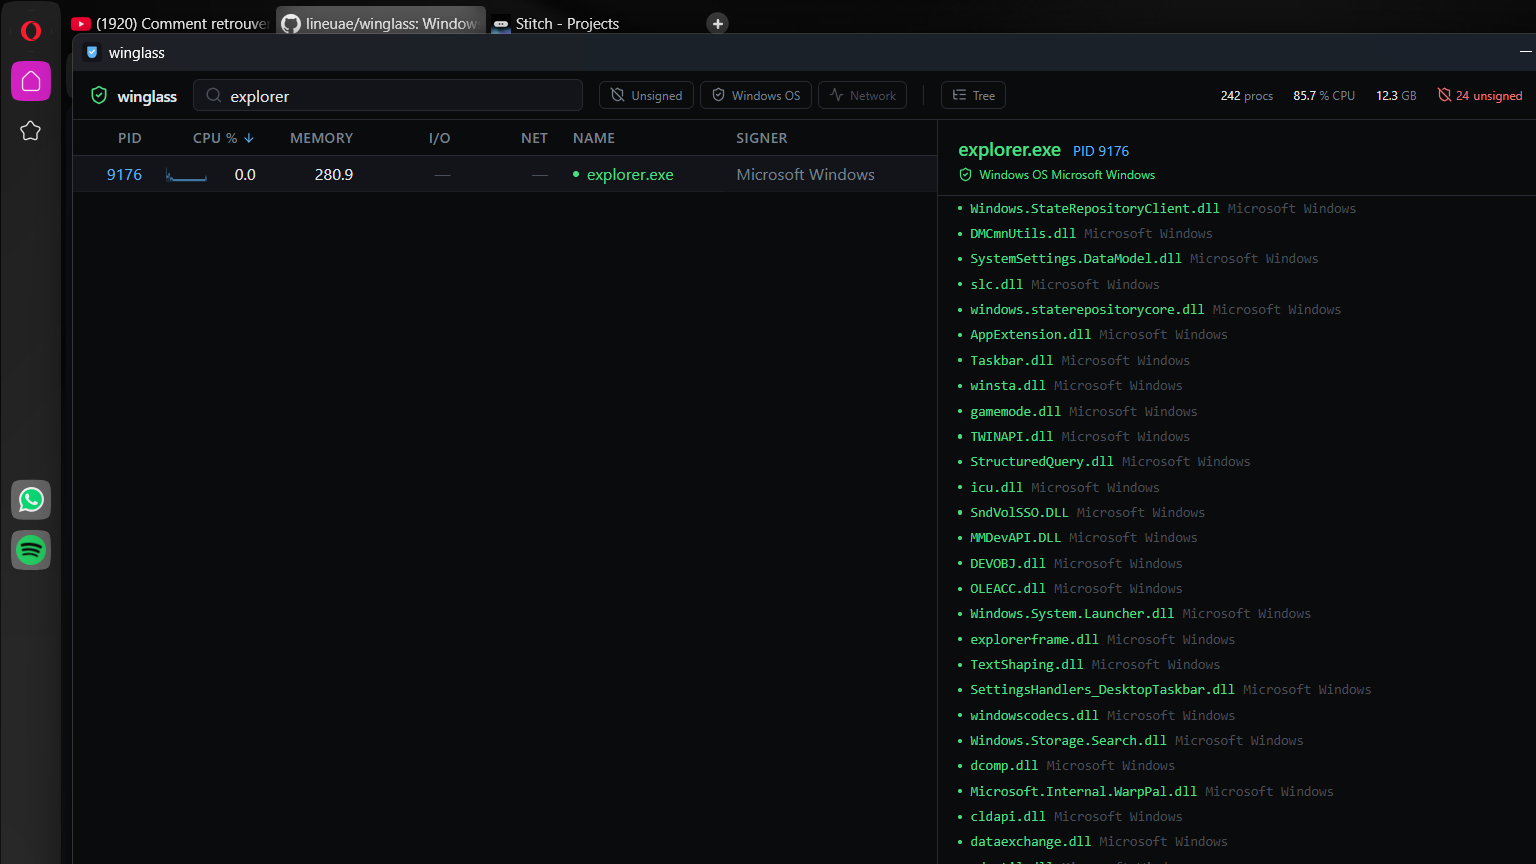
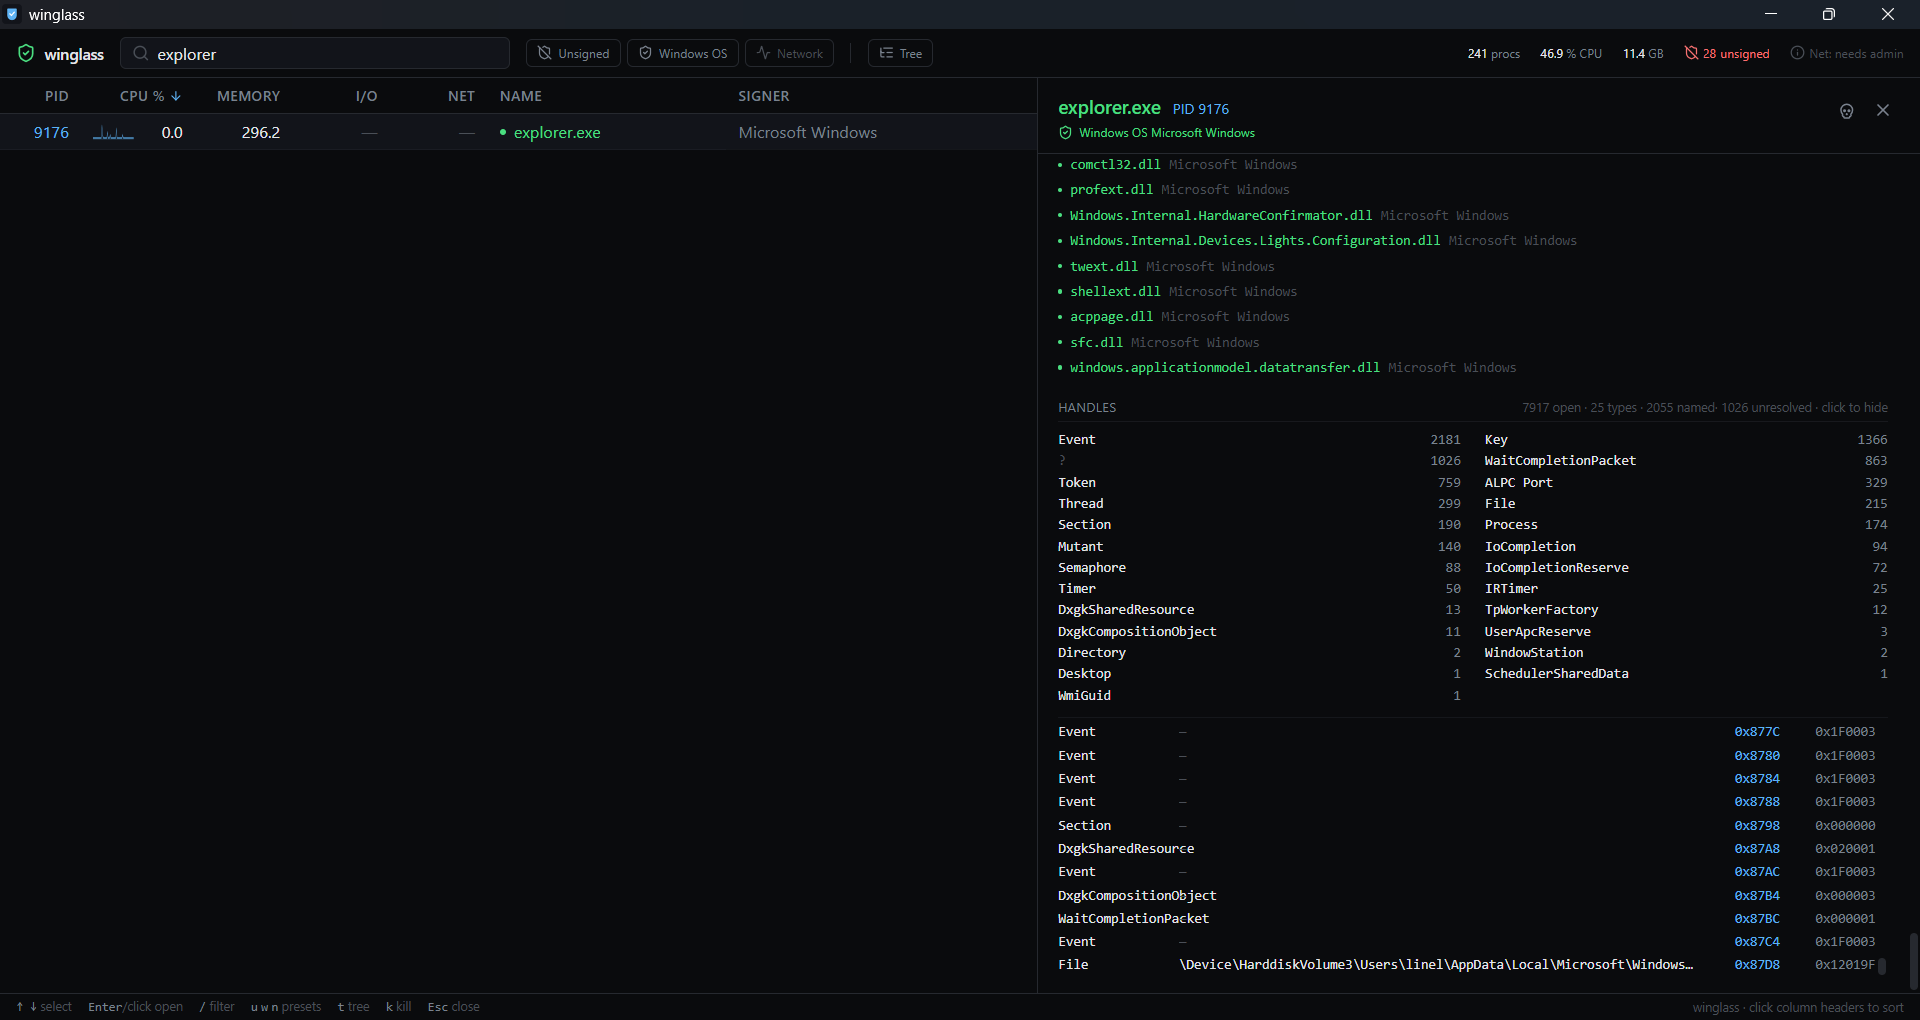
docs: refresh README architecture and GeoIP setup
Bring the architecture summary in line with the v1.0 backend (four
commands, the handle/net caches, the ETW monitor, the thread/handle/ETW
APIs) and rewrite the GeoIP section around scripts/fetch-geoip.ps1 so it
no longer reads as a manual terminal step. Also refresh the two
screenshots and their alt text.

diff --git a/README.md b/README.md
@@ -152,7 +152,7 @@ The section header counts named vs unresolved so you can see how much
 of the enumeration finished within the 2 s global budget.
 
 <p align="center">
-  <img src="docs/screenshots/detail-handles.png" alt="Detail panel Handles section for explorer.exe: 7111 open handles across 25 types, 1745 resolved names visible next to their handle values and access masks" width="720" />
+  <img src="docs/screenshots/detail-handles.png" alt="Detail panel for explorer.exe: tail of the per-DLL signature list, then the Handles section — 7917 open handles across 25 types, type histogram, and handle rows with resolved object names, handle values and access masks" width="720" />
 </p>
 
 **DLLs** — every module loaded into the process, one per line, each with
@@ -263,25 +263,27 @@ Then sets rustup's default to `stable-x86_64-pc-windows-msvc` and runs
 ### GeoIP database
 
 The country-code badge on public remote IPs comes from a db-ip.com
-IP-to-Country Lite MMDB. It ships bundled with the release installer
-but isn't in the git tree (~8 MB binary, refreshed monthly upstream).
-Fetch the current month's file before your first build:
+IP-to-Country Lite MMDB (~8 MB, refreshed monthly upstream, not checked
+into git). You don't fetch it by hand:
+
+- **Installing a release** — the MSI/NSIS installer already bundles it.
+  Nothing to do.
+- **Building from source** — `scripts\setup.ps1` downloads it as its last
+  step, so a fresh clone is ready to build with country badges working.
+
+To refresh it or grab it without re-running full setup:
 
 ```powershell
-$ym = Get-Date -Format "yyyy-MM"
-Invoke-WebRequest "https://download.db-ip.com/free/dbip-country-lite-$ym.mmdb.gz" `
-  -OutFile "src-tauri/resources/GeoLite2-Country.mmdb.gz"
-& tar -xzf "src-tauri/resources/GeoLite2-Country.mmdb.gz" -C "src-tauri/resources"
-Remove-Item "src-tauri/resources/GeoLite2-Country.mmdb.gz"
+.\scripts\fetch-geoip.ps1          # skips if already present
+.\scripts\fetch-geoip.ps1 -Force   # re-download this month's file
 ```
 
-The MSI/NSIS bundler picks it up automatically. For `npm run tauri dev`,
-Tauri's `resource_dir()` in dev mode returns `target\debug\`, so copy
-the file there too — otherwise the badge stays empty until you run
-against a release build. Missing DB = feature silently disabled, not
-an error.
-
-Data is licensed CC BY 4.0 by db-ip.com.
+The release workflow calls the same script, so there's one source of
+truth for the fetch. Missing DB = feature silently disabled, not an
+error — so if the badges are empty under `npm run tauri dev` (Tauri
+resolves resources differently in dev than in a packaged build), that's
+cosmetic and clears up in the installer/release build. Data is licensed
+CC BY 4.0 by db-ip.com.
 
 ### Development
 
@@ -331,21 +333,35 @@ has to go manually.
 
 ## Architecture summary
 
-**Rust backend** — Tauri v2 exposes three commands (`list_processes`,
-`get_process_detail`, `kill_process`) backed by a `Mutex<AppState>`.
-State owns:
+**Rust backend** — Tauri v2 exposes four commands (`list_processes`,
+`get_process_detail`, `kill_process`, and `net_monitor_active`, which
+tells the UI whether the ETW session came up) backed by a
+`Mutex<AppState>`. State owns:
 
 - A `sysinfo::System` for CPU/memory/basic-metadata
-- Per-PID caches: `exe_path`, `sig`, `dns`, `dll`, `io_state`,
-  `io_delta`, `io_total`, `cpu_history`, `mem_history`, `sha`
-- Two background workers reachable through mpsc channels: signature
-  verification (`verify::start_worker`) and reverse DNS
-  (`dns::start_worker`)
+- Per-PID caches: `exe_path`, `sig`, `dns`, `dll`, `handles`,
+  `io_state`/`io_delta`/`io_total`,
+  `net_state`/`net_delta`/`net_total`,
+  `cpu_history`/`mem_history`/`net_history`, `sha`
+- Two mpsc-backed worker threads for the slow, occasionally-hanging calls
+  that must never hold the mutex: signature verification
+  (`verify::start_worker`) and reverse DNS (`dns::start_worker`)
+- When launched with the required privileges, an ETW session
+  (`etw::NetMonitor`) accumulating per-PID network bytes on its own
+  processing thread; commands take a cheap snapshot of it at 1 Hz
+
+The per-detail enumerations that can be slow — open handles (name
+resolution is capped at a 2 s budget) and loaded DLLs — run *outside*
+the lock and populate their caches, so opening a handle-heavy process
+never stalls the 1 Hz table refresh behind the same mutex.
 
 **Frontend** — SvelteKit 5 in single-page mode with Tailwind CSS v4 for
-styling and Lucide-svelte for icons. Two components: the process table
-route (`+page.svelte`) and the detail panel (`DetailPanel.svelte`).
-Both poll their Tauri command every 1 s.
+styling and Lucide-svelte for icons. Two polling views — the process
+table route (`+page.svelte`) and the detail panel
+(`DetailPanel.svelte`), each invoking its Tauri command every 1 s — over
+a shared `Sparkline.svelte` and small `$lib` helpers: `format.ts` for
+byte/rate/duration formatting and `sig.ts` for the one signature→color
+mapping both views resolve through.
 
 **Windows APIs** — sysinfo covers the basics; everything else is direct
 calls via the `windows` crate:
@@ -358,8 +374,15 @@ calls via the `windows` crate:
 - `NtQueryInformationProcess(ProcessProtectionInformation, 61)` for
   PPL/PP labels
 - `EnumProcessModulesEx` for DLL enumeration
+- `NtQuerySystemInformation(SystemProcessInformation, 5)` for per-thread
+  state and wait reasons
+- `NtQuerySystemInformation(SystemExtendedHandleInformation, 64)` +
+  `DuplicateHandle` + `NtQueryObject` for open handles and their object
+  names
 - `GetProcessIoCounters` for disk I/O deltas
 - `GetExtendedTcpTable` / `GetExtendedUdpTable` for per-process sockets
+- `Microsoft-Windows-Kernel-Network` ETW provider (via the `ferrisetw`
+  crate) for per-process network throughput
 - `GetNameInfoW` for reverse DNS
 - `sha2` (Rust crate) for SHA-256
 